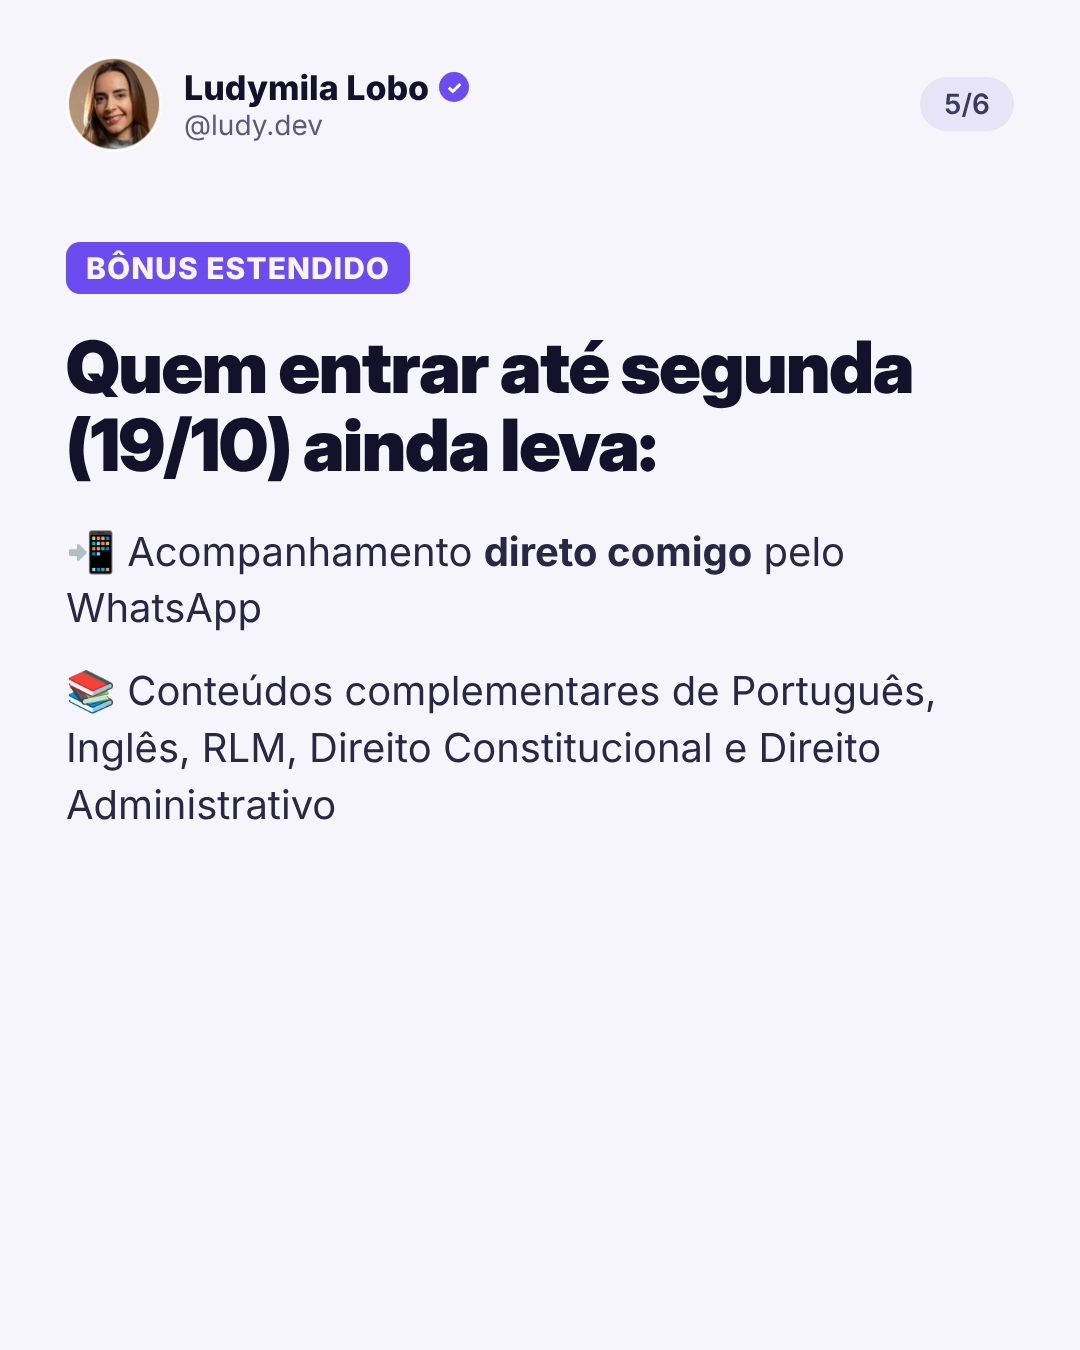
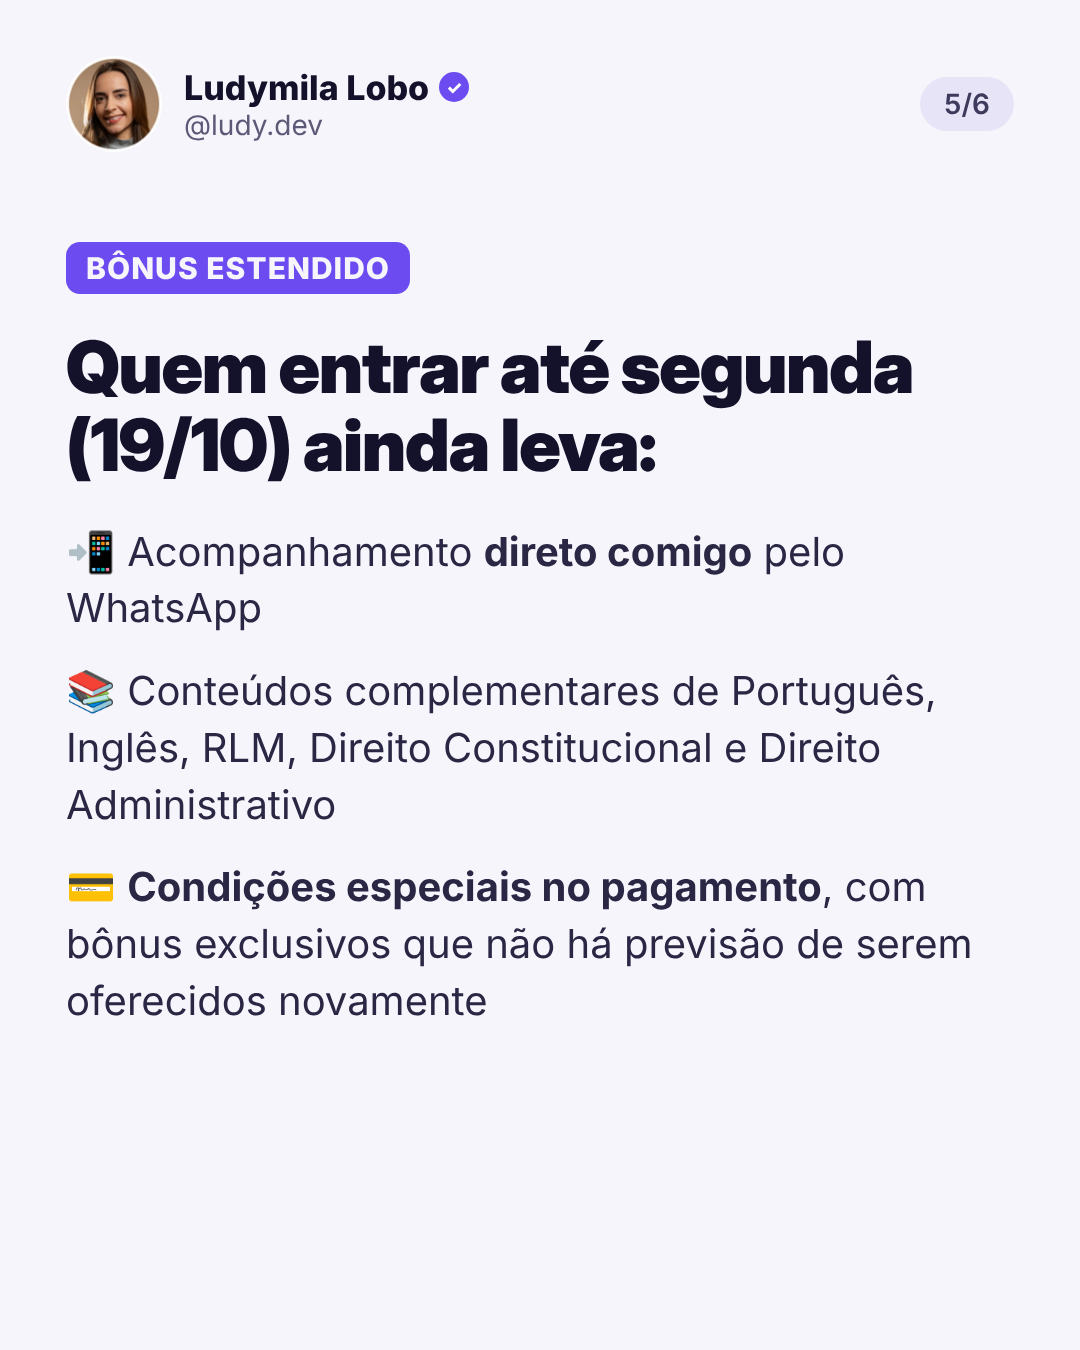
Mentoria: condições especiais de pagamento no bônus
Claude-Session: https://claude.ai/code/session_01PAmMNyTervBqrWDZUP7Uz7

Changed region(s): [[0.0611, 0.6222, 0.8861, 0.7467]]

diff --git a/_ferramentas/mentoria_1810.py b/_ferramentas/mentoria_1810.py
@@ -5,7 +5,7 @@ p = [
  page_b('<h2>Na live eu vou te mostrar:</h2><p>✅ Como funciona a <span class="hl">Mentoria Individual</span>, do primeiro dia até a prova</p><p>✅ Como eu monto um <span class="hl">cronograma de estudos</span> para concursos de TI</p><p>✅ O método que usei para ser aprovada como <b>analista de TI em um tribunal federal</b></p>', 2, T),
  page_b('<h2>O método <span class="v">GPS</span></h2><p><b>G · Guia</b>: definir o objetivo e o tipo de concurso certo pra você</p><p><b>P · Planejamento</b>: cronograma personalizado, no seu ritmo</p><p><b>S · Sucesso</b>: acompanhamento por questões, metas e indicadores, recalculando a rota sempre que precisar</p>', 3, T),
  page_b('<h2>Na Mentoria Individual você tem:</h2><p>🎯 Preparatório personalizado para a <b>sua</b> meta</p><p>🗺 Cronograma estratégico com o método GPS</p><p>📊 Plataforma com relatório mensal de desempenho</p><p>💬 Grupo exclusivo de mentorados</p>', 4, T),
- page_b('<span class="tag">BÔNUS ESTENDIDO</span><h2>Quem entrar até segunda (19/10) ainda leva:</h2><p>📲 Acompanhamento <b>direto comigo</b> pelo WhatsApp</p><p>📚 Conteúdos complementares de Português, Inglês, RLM, Direito Constitucional e Direito Administrativo</p>', 5, T),
+ page_b('<span class="tag">BÔNUS ESTENDIDO</span><h2>Quem entrar até segunda (19/10) ainda leva:</h2><p>📲 Acompanhamento <b>direto comigo</b> pelo WhatsApp</p><p>📚 Conteúdos complementares de Português, Inglês, RLM, Direito Constitucional e Direito Administrativo</p><p>💳 <b>Condições especiais no pagamento</b>, com bônus exclusivos que não há previsão de serem oferecidos novamente</p>', 5, T),
  page_b('<h2>Anota aí:</h2><div class="box">📅 <b>Live:</b> segunda, 19/10, às 20h (Brasília) · 19h (Manaus), exclusiva para o grupo VIP<br><br>⏳ <b>Inscrições e bônus:</b> só até segunda, 19/10<br><br>Comenta <b>GPS</b> que eu te mando o link do grupo VIP.</div>', 6, T),
 ]
 render(p, "/home/claude/posts/2026-10-18/post-4")
